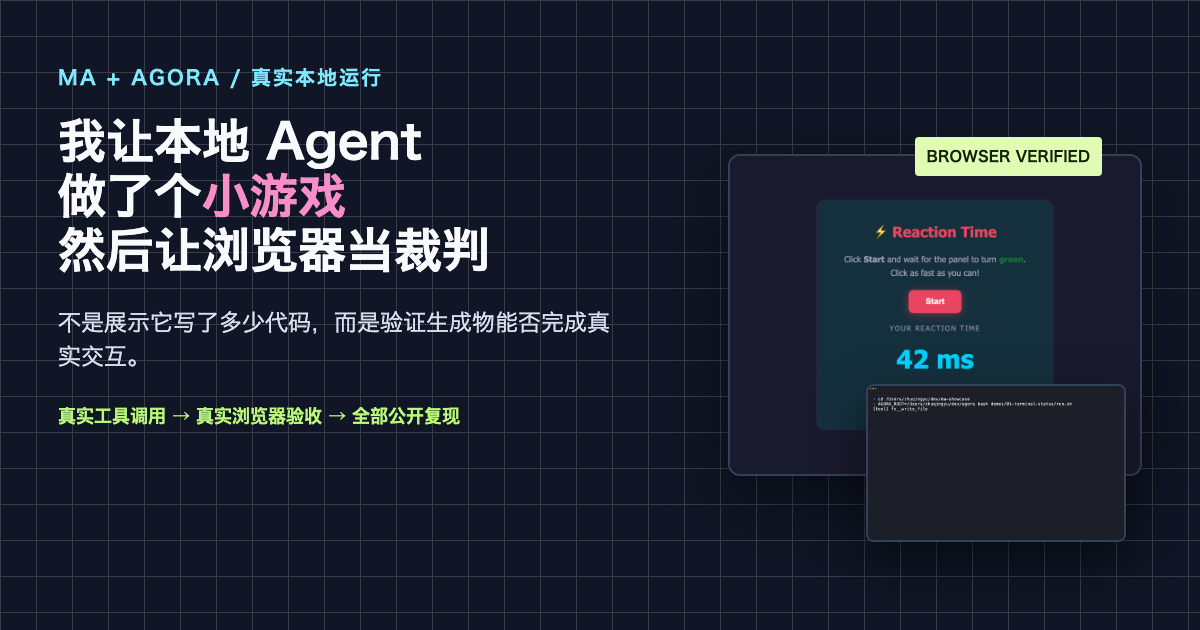
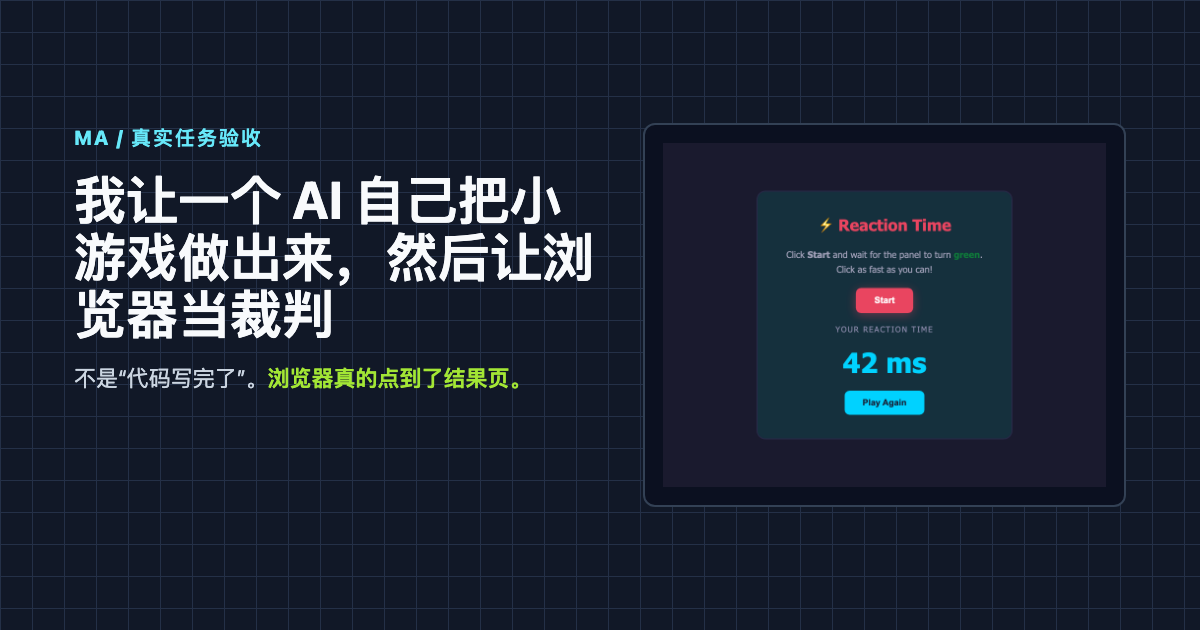
feat: make MA the public marketing focus

Changed region(s): [[0.0, 0.0, 1.0, 1.0], [0.5858, 0.7238, 0.6167, 0.754], [0.5858, 0.2714, 0.6167, 0.3016]]

diff --git a/social/reaction-time-cover.html b/social/reaction-time-cover.html
@@ -1,0 +1,44 @@
+<!doctype html>
+<html lang="zh-CN">
+  <head>
+    <meta charset="utf-8">
+    <meta name="viewport" content="width=device-width, initial-scale=1">
+    <title>MA reaction-time cover</title>
+    <style>
+      * { box-sizing: border-box; }
+      body {
+        align-items: center;
+        background-color: #111827;
+        background-image: linear-gradient(#243047 1px, transparent 1px), linear-gradient(90deg, #243047 1px, transparent 1px);
+        background-size: 32px 32px;
+        color: #f8fafc;
+        display: flex;
+        font-family: ui-sans-serif, -apple-system, BlinkMacSystemFont, "Segoe UI", sans-serif;
+        height: 630px;
+        justify-content: center;
+        margin: 0;
+        overflow: hidden;
+        width: 1200px;
+      }
+      main { display: grid; gap: 36px; grid-template-columns: 1.05fr .95fr; padding: 58px 74px; width: 100%; }
+      .eyebrow { color: #67e8f9; font-size: 20px; font-weight: 800; letter-spacing: 2px; margin: 0 0 18px; }
+      h1 { font-size: 52px; letter-spacing: 0; line-height: 1.1; margin: 0; }
+      p { color: #cbd5e1; font-size: 22px; line-height: 1.5; margin: 20px 0 0; }
+      strong { color: #a3e635; }
+      .proof { align-items: center; background: #0b1020; border: 2px solid #334155; border-radius: 12px; display: flex; justify-content: center; padding: 18px; }
+      .proof img { display: block; max-height: 420px; max-width: 100%; object-fit: contain; }
+    </style>
+  </head>
+  <body>
+    <main>
+      <section>
+        <p class="eyebrow">MA / 真实任务验收</p>
+        <h1>我让一个 AI 自己把小游戏做出来，然后让浏览器当裁判</h1>
+        <p>不是“代码写完了”。<strong>浏览器真的点到了结果页。</strong></p>
+      </section>
+      <section class="proof">
+        <img src="./assets/reaction-time-result.png" alt="浏览器验收结果，显示 42 ms 和 Play Again">
+      </section>
+    </main>
+  </body>
+</html>

diff --git a/social/reaction-short-card.html b/social/reaction-short-card.html
@@ -3,7 +3,7 @@
   <head>
     <meta charset="utf-8">
     <meta name="viewport" content="width=device-width, initial-scale=1">
-    <title>MA + Agora short card</title>
+    <title>MA short card</title>
     <style>
       :root {
         color-scheme: dark;
@@ -76,8 +76,8 @@
       const card = document.getElementById("card");
       const scenes = {
         intro: `
-          <div class="eyebrow">MA + AGORA / REAL LOCAL RUN</div>
-          <h1>A local coding agent got <span class="accent">one job.</span></h1>
+          <div class="eyebrow">MA / REAL TASK RUN</div>
+          <h1>Give an AI <span class="accent">one real job.</span></h1>
           <p>Build a playable game. Then let the browser judge it.</p>
         `,
         tool: `
@@ -92,8 +92,8 @@
           <p>The generated page reached a verified result state.</p>
         `,
         outro: `
-          <div class="eyebrow">NO STAGED DEMO</div>
-          <h1>Prompt, artifact, and verifier are public.</h1>
+          <div class="eyebrow">EVIDENCE, NOT A PROMISE</div>
+          <h1>MA works in the repo. The browser checks the result.</h1>
           <p class="link">github.com/zimoos/ma-showcase</p>
         `,
       };

diff --git a/social/PUBLISHING_FLOW.md b/social/PUBLISHING_FLOW.md
@@ -2,6 +2,30 @@
 
 Use this flow only after the article copy, cover, body images, and short video are already prepared. The bundle is the single source of truth; do not rewrite claims in each platform editor.
 
+## Public-message rule
+
+The post leads with a user's task and a visible result: what MA was asked to do, what it actually produced, and how the result was verified. Explain MA once as a coding agent that works in a repository. Provider names, model names, internal runtimes, and implementation details belong in linked documentation only; they are never the hook, title, cover, first screen, or short-video voiceover.
+
+Every release bundle must include `marketing.audience`, `title_hook`, `retention_proof`, `comment_prompt`, and `star_conversion`. The validator rejects a bundle without them.
+
+## The Three Reasons Someone Acts
+
+### 1. Why they stop
+
+The title and cover must show a concrete task plus a credible conflict. MA's hook is not “supports a runtime”; it is “an AI said it was done, so a browser judged the real result.” Use a task anyone can inspect, such as making a game, fixing a broken interaction, or shipping a small app. Do not use provider, model, benchmark, or implementation nouns in the title.
+
+### 2. Why they stay
+
+Open with the task and a pass/fail rule in the first screen or first paragraph. Then show the evidence chain quickly: the agent touched the repository, the artifact exists, and the user path was exercised. Include one bounded limitation or failure when it matters. That makes the proof more credible than a polished product tour.
+
+### 3. Why they comment
+
+End with a precise invitation that is easy to answer: ask readers for their own failed task, broken prompt, or acceptance rule. Do not end with “what do you think?” The first reply should repeat the challenge and tell people what evidence to include. Reply to concrete examples with a reproducible test plan, not generic thanks.
+
+### GitHub conversion
+
+The GitHub link appears after the evidence, with a route to the exact prompt, artifact, and verifier. The call to action is “bring a real task and try to break MA,” not “please give us a Star.” A Star is the outcome of earned trust and a clear next step.
+
 ## 0. Validate before opening a publisher
 
 ```bash

diff --git a/README.md b/README.md
@@ -1,13 +1,13 @@
 # MA Showcase
 
-Real, reproducible demos made by [MA](https://github.com/zimoos/my-agent) with the Agora local runtime.
+Real, reproducible demos showing [MA](https://github.com/zimoos/my-agent) turn a prompt into a verified result. MA is a coding agent that works in a repository, runs what it produced, and keeps the evidence.
 
-![MA and Agora create and verify a real artifact](recordings/01-terminal-status.gif)
+![MA creates and verifies a real artifact](recordings/01-terminal-status.gif)
 
 Each demo keeps four things together:
 
 1. The prompt and task boundary.
-2. The command used to run MA with Agora.
+2. The exact command used to run MA.
 3. The generated artifact and a direct verification step.
 4. A terminal recording made from that same command.
 
@@ -17,8 +17,8 @@ This repository does not use synthetic agent output or staged completion claims.
 
 | Demo | What it proves | Artifact |
 | --- | --- | --- |
-| [01 Terminal Status](demos/01-terminal-status/) | MA + Agora can create and verify a standalone UI artifact through its filesystem tool. | `artifact/index.html` |
-| [02 Reaction Time](demos/02-reaction-time/) | MA + Agora can build a browser interaction, then a real browser test reaches its result state. | `artifact/index.html` |
+| [01 Terminal Status](demos/01-terminal-status/) | MA creates and verifies a standalone UI artifact through its filesystem tool. | `artifact/index.html` |
+| [02 Reaction Time](demos/02-reaction-time/) | MA builds a browser interaction, then a real browser test reaches its result state. | `artifact/index.html` |
 
 ### 02 Reaction Time
 
@@ -32,7 +32,7 @@ The artifact, browser recording, and verifier are committed together. The GIF sh
 
 ## Run Locally
 
-The examples require an MA installation and an Agora checkout containing a downloaded supported model.
+The recorded runs use MA with an Agora local setup. That runtime detail is only needed when reproducing this exact environment; the user-facing proof remains the same: MA created a real artifact and the browser verified it.
 
 ```bash
 AGORA_ROOT=/path/to/agora bash demos/01-terminal-status/run.sh

diff --git a/social/README.md b/social/README.md
@@ -1,6 +1,6 @@
 # Social Assets
 
-This directory holds platform-ready assets built only from real MA + Agora evidence. The vertical short combines the actual `fs__write_file` recording with a Playwright-run interaction of the generated reaction-time game.
+This directory holds platform-ready assets built only from real MA evidence. The vertical short combines the actual `fs__write_file` recording with a Playwright-run interaction of the generated reaction-time game.
 
 ## Build
 
@@ -20,13 +20,13 @@ The result is `social/ma-agora-reaction-short.mp4`: 1080x1920, no audio, and sui
 
 **Description**:
 
-> This is a real local MA + Agora run, not a staged trailer. The agent used a filesystem tool to create a reaction-time game, then a browser test clicked through to a measured result. Prompt, generated artifact, GIF, and verifier: https://github.com/zimoos/ma-showcase
+> MA is a coding agent that works in a repository and proves the result. This is a real run, not a staged trailer: MA used a filesystem tool to create a reaction-time game, then a browser test clicked through to a measured result. Prompt, generated artifact, GIF, and verifier: https://github.com/zimoos/ma-showcase
 
 ### Douyin
 
 **Caption**:
 
-> 我给本地 Coding Agent 出了一道题：做一个能玩的小游戏，然后让浏览器当裁判。它调用文件工具写出页面，浏览器真实点击后进入结果态。提示词、生成物和验收脚本全部开源：github.com/zimoos/ma-showcase
+> 我让一个 AI 自己做了个小游戏，然后没相信它的“完成了”。我让浏览器去点，只有真的出现结果页才算过。MA 是个能在仓库里动手干活的 Coding Agent，提示词、生成物和验收脚本都开源：github.com/zimoos/ma-showcase
 
 **Hashtags**: `#AI编程 #本地大模型 #开源项目 #CodingAgent`
 